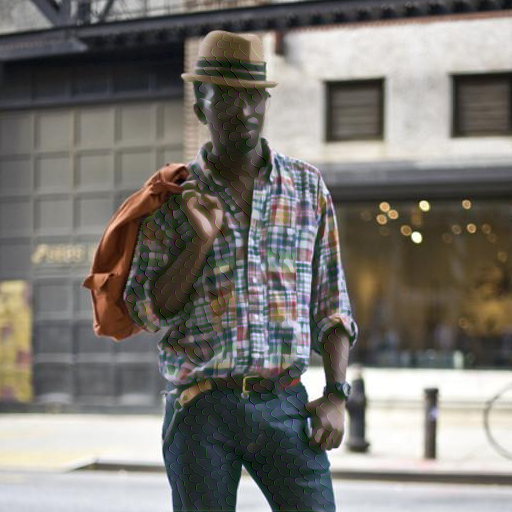
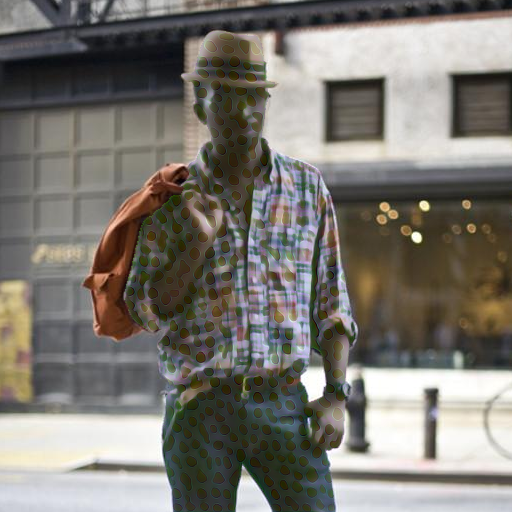
new edit

Changed region(s): [[0.25, 0.2812, 0.6875, 1.0], [0.375, 0.0625, 0.5312, 0.3125]]

diff --git a/main.py b/main.py
@@ -347,12 +347,12 @@ def get_config():
         "seed":                 2043,
         "edit_background":      True,
         "load_existing":        True,
-        "checkpoint_path":      os.path.join("checkpoints", "unet_best_qyon0vk7.pth"),
+        "checkpoint_path":      os.path.join("checkpoints", "unet_best_4mqsak4z.pth"),
         "attack_model":         "runwayml/stable-diffusion-inpainting",
         "base_output_dir":      "output",
         "dataset_path":         "./data/DiffVaxDataset_local",
         "dataset_split":        "validation",
-        "sample_idx":           2,
+        "sample_idx":           12,
         "run_full_dataset":     False,
     }
 